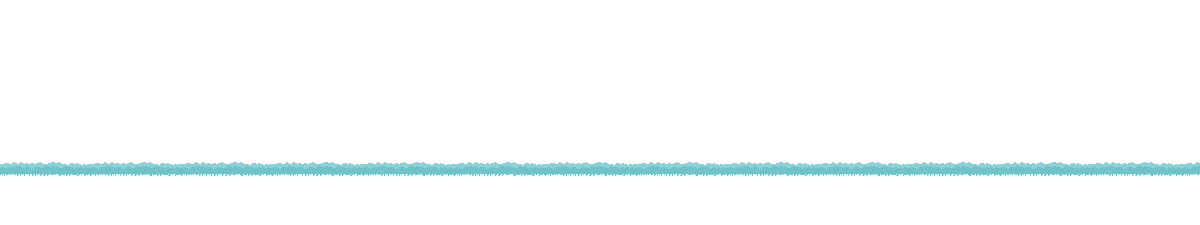
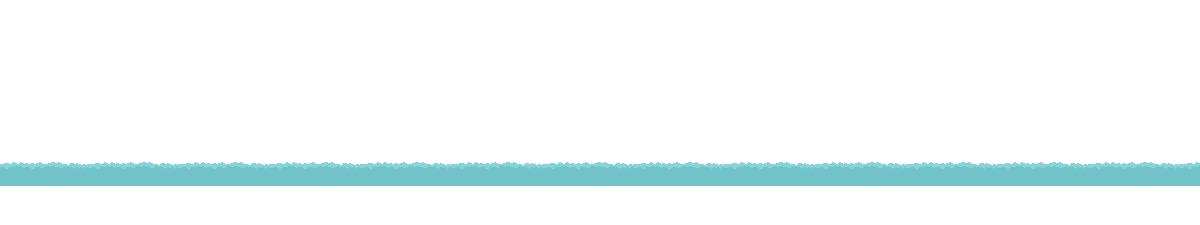
parallax done

Changed region(s): [[0.0, 0.7778, 1.0, 0.84]]

diff --git a/src/systems/camera.rs b/src/systems/camera.rs
@@ -6,7 +6,11 @@ use amethyst::{
 };
 
 use crate::{
-	components::{Player, CameraMotion}
+	components::{
+		Player,
+		CameraMotion,
+		LevelLayerComponent,
+	},
 };
 
 #[derive(Default)]
@@ -35,10 +39,10 @@ impl<'s> System<'s> for CameraMotionSystem {
 			}
 		}
 
-		if target_transform.is_none() {
-			return;
-		}
-		let mut target_transform = target_transform.unwrap();
+		let mut target_transform = match target_transform {
+			Some(t) => t,
+			None => return,
+		};
 
 		let mut camera_transform: Option<&mut Transform> = None;
 		let mut camera_half_width: f32 = 0.0;
@@ -50,10 +54,10 @@ impl<'s> System<'s> for CameraMotionSystem {
 			}
 		}
 
-		if camera_transform.is_none() {
-			return;
-		}
-		let camera_transform = camera_transform.unwrap();
+		let camera_transform = match camera_transform {
+			Some(t) => t,
+			None => return,
+		};
 
 		if target_transform.translation().x - camera_half_width < 0.0 {
 			target_transform.set_translation_x(camera_half_width);
@@ -64,5 +68,54 @@ impl<'s> System<'s> for CameraMotionSystem {
 		}
 
 		camera_transform.set_translation(*target_transform.translation());
+    }
+}
+
+#[derive(Default)]
+pub struct ParallaxSystem;
+
+const PARALLAX_COEFF: f32 = 0.02;
+
+impl<'s> System<'s> for ParallaxSystem {
+    type SystemData = (
+		WriteStorage<'s, Transform>,
+		ReadStorage<'s, Camera>,
+		WriteStorage<'s, LevelLayerComponent>,
+    );
+
+    fn run(&mut self, data: Self::SystemData) {
+		let (mut transforms, cameras, mut level_layers) = data;
+
+		let mut camera_transform: Option<&Transform> = None;
+		let mut camera_half_width: f32 = 0.0;
+		{
+			for (transform, camera) in (&transforms, &cameras).join() {
+				camera_transform = Some(transform);
+				camera_half_width = camera.projection().as_orthographic().unwrap().right();
+				break;
+			}
+		}
+
+		let camera_transform = match camera_transform {
+			Some(t) => t,
+			None => return,
+		};
+
+		let camera_x = camera_transform.translation().x;
+
+		for (transform, level_layer) in (&mut transforms, &mut level_layers).join() {
+
+			if level_layer.depth >= -0.99 {
+				continue;
+			}
+
+			let shift = -level_layer.depth * (camera_x - camera_half_width) * PARALLAX_COEFF;
+
+			let old_shift = level_layer.parallax_shift;
+			level_layer.parallax_shift = shift;
+
+			transform.prepend_translation_x(-old_shift);
+			transform.prepend_translation_x(shift);
+		}
     }
 }

diff --git a/src/states/game.rs b/src/states/game.rs
@@ -18,6 +18,7 @@ use crate::{
         AnimationPrefab,
         camera::add_camera,
         player::add_player,
+        level::LevelLayerComponent,
     },
     resources::*,
 };
@@ -41,8 +42,14 @@ fn add_level(world: &mut World, level: LevelData) {
             sprite_number: 0,
         };
 
+        let level_layer_component = LevelLayerComponent {
+            depth: layer.depth,
+            parallax_shift: 0.0,
+        };
+
         world
             .create_entity()
+            .with(level_layer_component)
             .with(transform)
             .with(sprite_render)
             .build();

diff --git a/src/components/mod.rs b/src/components/mod.rs
@@ -2,6 +2,7 @@ pub mod animation;
 pub mod player;
 pub mod camera;
 pub mod locomotion;
+pub mod level;
 
 pub use self::animation::Animation;
 pub use self::animation::AnimationId;
@@ -10,3 +11,4 @@ pub use self::player::Player;
 pub use self::locomotion::LocomotionState;
 pub use self::locomotion::Locomotion;
 pub use self::camera::CameraMotion;
+pub use self::level::LevelLayerComponent;

diff --git a/src/main.rs b/src/main.rs
@@ -73,6 +73,11 @@ fn main() -> amethyst::Result<()> {
             "camera_motion_system",
             &["locomotion_system"],
         )
+        .with(
+            ParallaxSystem,
+            "parallax_system",
+            &["camera_motion_system"],
+        )
         .with_bundle(
             RenderingBundle::<DefaultBackend>::new()
                 .with_plugin(

diff --git a/src/components/level.rs b/src/components/level.rs
@@ -1,0 +1,20 @@
+use amethyst::{
+    ecs::{Component, DenseVecStorage},
+};
+
+#[derive(Component)]
+#[storage(DenseVecStorage)]
+pub struct LevelLayerComponent
+{
+	pub depth: f32,
+	pub parallax_shift: f32,
+}
+
+impl Default for LevelLayerComponent {
+	fn default() -> Self {
+		LevelLayerComponent {
+			depth: 0.0,
+			parallax_shift: 0.0,
+		}
+	}
+}

diff --git a/src/systems/mod.rs b/src/systems/mod.rs
@@ -9,3 +9,4 @@ pub use self::input::PlayerInputSystem;
 pub use self::input::InputBindingTypes;
 pub use self::locomotion::LocomotionSystem;
 pub use self::camera::CameraMotionSystem;
+pub use self::camera::ParallaxSystem;
